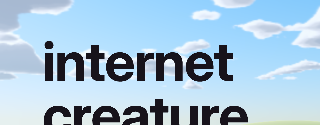
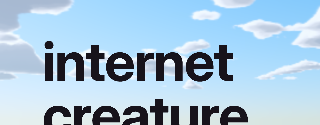
Stop a sliver of the site's hills hanging frozen in the sky
The static sky image was cut from a still of the site down to the top
of the live hills, and its last few rows show the site's own far hill.
It sat motionless above the moving layers, rising out of the last "e" of
"creature". The static sky now repeats the still's last clean row below
it, as the sky band behind the far hills already did.

Changed region(s): [[0.75, 0.96, 1.0, 1.0]]

diff --git a/examples/internet-creature-studios/render_layers.py b/examples/internet-creature-studios/render_layers.py
@@ -43,6 +43,7 @@ WIDTH, HEIGHT = 320, 240
 # sky: ground at infinity meets the sky at this row, and the far crests reach
 # up to about row 120.
 HORIZON = 135.0
+SKY_CLEAN_ROWS = 120  # rows of sky.png above its own hills
 FOCAL = 120 / math.tan(math.radians(16))  # the preset's 32 degree vertical fov
 EYE = 12.0  # the preset camera's height
 SS = 3  # supersampling per axis
@@ -511,15 +512,19 @@ def main(preset_path, source, out, mode="full"):
     logo = Image.open(os.path.join(source, "logo.png")).convert("RGBA")
     logo_at = (layout["logo_x"], layout["logo_y"])
 
-    # Below row 119 sky.png shows the site's own hills, so the sky band
-    # repeats that row down to the horizon.
-    clean = min(119, sky_bottom)
-    band_img = Image.new("RGBA", (WIDTH, sky_bottom - sky_top + 1))
-    for y in range(sky_top, sky_bottom + 1):
-        band_img.paste(frame.crop((0, min(y, clean), WIDTH, min(y, clean) + 1)), (0, y - sky_top))
-    band_img.convert("RGB").save(os.path.join(out, "sky_band.png"), optimize=True)
+    # Below row SKY_CLEAN_ROWS - 1, sky.png shows the site's own hills. Both
+    # sky images repeat that last clean row instead: the static one too, or
+    # a sliver of those hills hangs frozen above the live ones.
+    def sky(first, end):
+        img = Image.new("RGBA", (WIDTH, end - first))
+        for y in range(first, end):
+            row = min(y, SKY_CLEAN_ROWS - 1)
+            img.paste(frame.crop((0, row, WIDTH, row + 1)), (0, y - first))
+        return img
 
-    top_img = frame.crop((0, 0, WIDTH, sky_top))
+    sky(sky_top, sky_bottom + 1).convert("RGB").save(os.path.join(out, "sky_band.png"), optimize=True)
+
+    top_img = sky(0, sky_top)
     top_img.alpha_composite(logo, logo_at)
     top_img.convert("RGB").save(os.path.join(out, "sky_top.png"), optimize=True)
 
